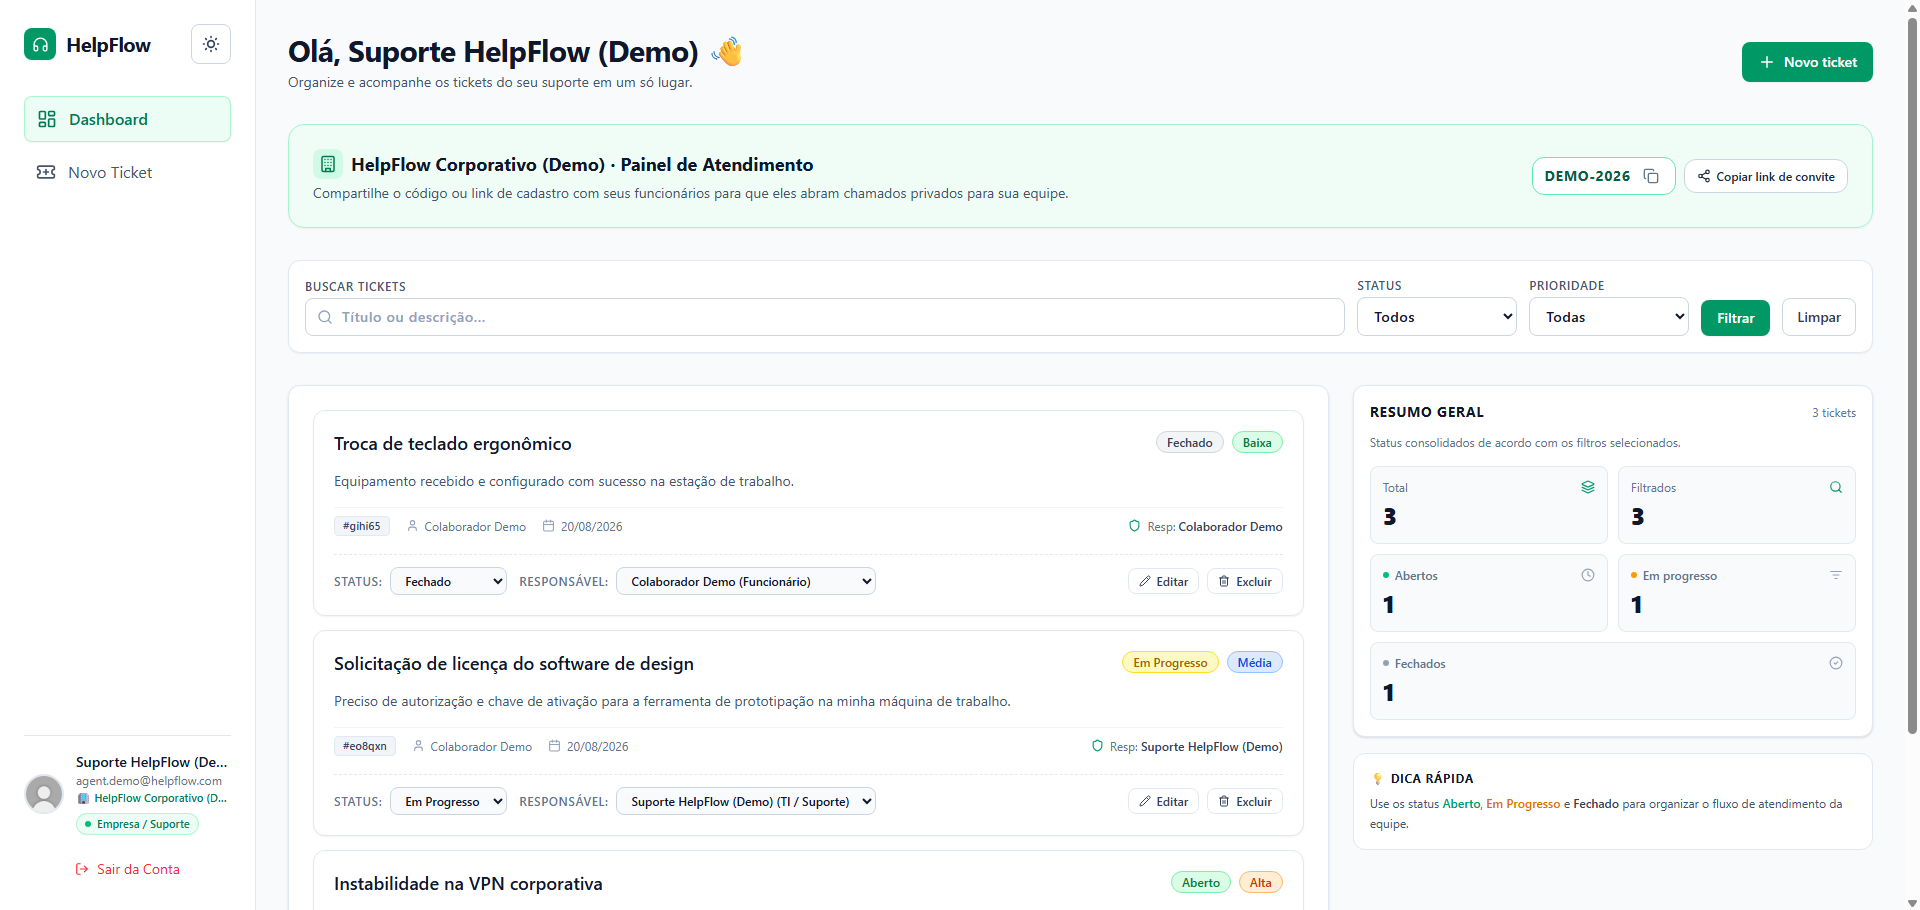
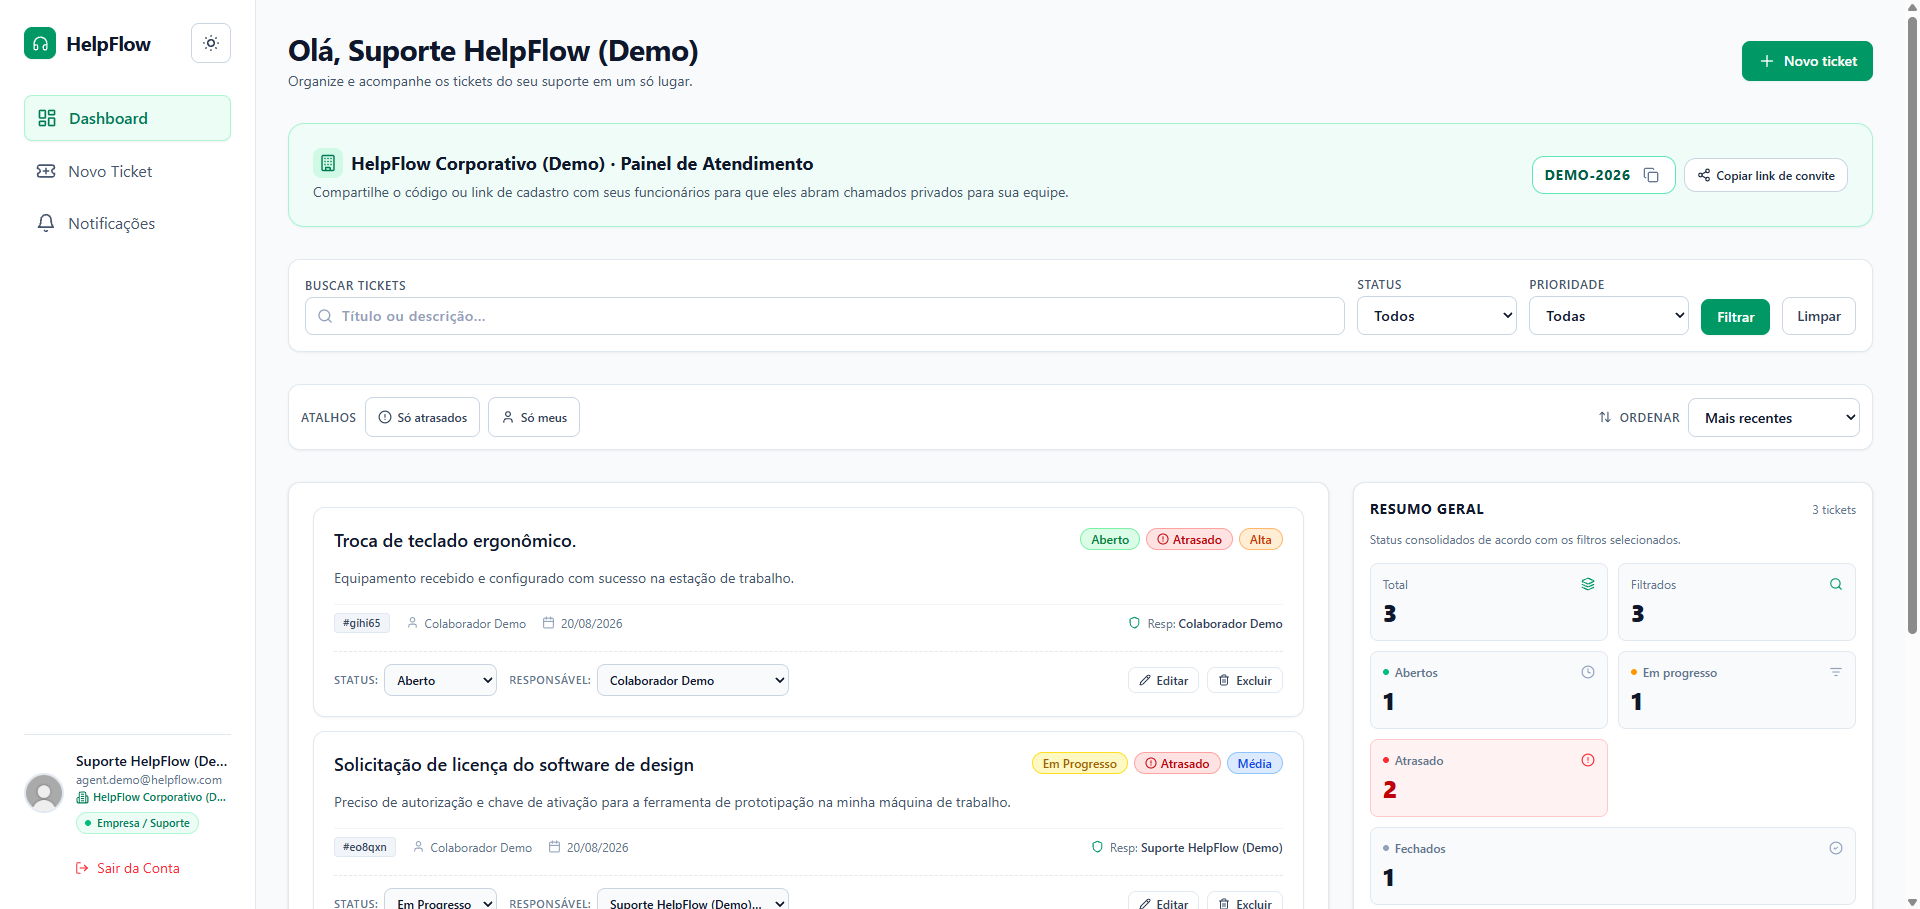
docs(previews): atualiza screenshots e galeria do readme

diff --git a/README.md b/README.md
@@ -49,43 +49,23 @@ Além disso, qualquer visitante pode cadastrar sua própria **Empresa** ou se re
 
 ## Demonstração Visual da Jornada
 
-O HelpFlow guia a organização desde a criação do espaço até a resolução e acompanhamento dos chamados:
+O HelpFlow guia a organização desde a criação do espaço até a resolução e acompanhamento dos chamados. As telas abaixo seguem o tema claro; o tema escuro aparece no fim como alternativa nativa.
 
-### 1. Descoberta e Apresentação
-Apresentação moderna com simulador interativo de chamados e proposta de valor clara.
-![Landing Page do HelpFlow](docs/screenshots/01-landing-page-hero.png)
-
-### 2. Cadastro Corporativo Segmentado
-Ambiente unificado para criação do espaço da Empresa ou entrada do Funcionário via código corporativo.
-![Cadastro Corporativo Multi-Empresa](docs/screenshots/02-cadastro-multitenant.png)
-
-### 3. Autenticação e Acesso Rápido de Demonstração
-Tela de login com suporte a credenciais seguras e acesso 1-clique para teste das duas visões.
-![Tela de Login e Demonstração](docs/screenshots/03-login-acesso-demo.png)
-
-### 4. Visão da Empresa / TI (Gestão Geral e Convites)
-Fila geral de tickets corporativos, indicadores de atendimento e código de convite da empresa.
-![Dashboard da Empresa / TI](docs/screenshots/04-dashboard-empresa-ti.png)
-
-### 5. Visão do Colaborador (Privacidade Total)
-Histórico estritamente privado dos chamados do funcionário dentro da organização.
-![Dashboard do Funcionário](docs/screenshots/05-dashboard-funcionario-privado.png)
-
-### 6. Abertura de Novo Chamado Interno
-Interface simples e direta para solicitação de suporte com categorização por severidade.
-![Abertura de Chamado](docs/screenshots/06-abertura-novo-chamado.png)
+| | |
+|---|---|
+| **1. Descoberta e Apresentação**<br>Landing page com simulador interativo e proposta de valor clara.<br>![Landing Page do HelpFlow](docs/screenshots/01-landing-page-hero.png) | **2. Cadastro Corporativo Segmentado**<br>Criação da Empresa ou entrada do Funcionário via código corporativo.<br>![Cadastro Corporativo Multi-Empresa](docs/screenshots/02-cadastro-multitenant.png) |
+| **3. Autenticação e Acesso Rápido**<br>Login com credenciais seguras e acesso de demonstração em 1 clique.<br>![Tela de Login e Demonstração](docs/screenshots/03-login-acesso-demo.png) | **4. Visão da Empresa / TI**<br>Fila geral, indicadores de atendimento e código de convite da empresa.<br>![Dashboard da Empresa / TI](docs/screenshots/04-dashboard-empresa-ti.png) |
+| **5. Visão do Colaborador**<br>Histórico estritamente privado dos chamados do funcionário.<br>![Dashboard do Funcionário](docs/screenshots/05-dashboard-funcionario-privado.png) | **6. Abertura de Novo Chamado**<br>Solicitação de suporte com categorização por severidade.<br>![Abertura de Chamado](docs/screenshots/06-abertura-novo-chamado.png) |
 
 ### 7. Triagem Ágil e Acompanhamento de Detalhes
 Painel de triagem completa na página de detalhes, permitindo alterar status, prioridade e atribuir qualquer membro da empresa.
+
 ![Triagem e Detalhes do Chamado](docs/screenshots/07-triagem-e-detalhes-ticket.png)
 
-### 8. Experiência em Tema Claro
-Consistência e legibilidade com contraste balanceado para ambientes claros.
-![Tema Claro e Responsividade](docs/screenshots/08-tema-claro-responsivo.png)
+### 8. Experiência em Tema Escuro
+Design em modo dark nativo com paleta de tons neutros e acentos esmeralda.
 
-### 9. Experiência em Tema Escuro
-Design sofisticado em modo dark nativo com paleta de tons neutros e acentos esmeralda.
-![Tema Escuro e Responsividade](docs/screenshots/09-tema-escuro-responsivo.png)
+![Tema Escuro e Responsividade](docs/screenshots/08-tema-escuro-responsivo.png)
 
 ---
 
@@ -99,21 +79,20 @@ O sistema adota regras rigorosas de autorização no servidor (RBAC + Multi-tena
 | **Visualizar chamado** | Sim | Bloqueado | Sim | Sim (todos da empresa) | Bloqueado |
 | **Comentar no chamado** | Sim | Bloqueado | Sim | Sim | Bloqueado |
 | **Excluir comentário** | Sim (próprio) | Bloqueado | Sim (próprio) | Sim (qualquer da empresa) | Bloqueado |
-| **Editar título/descrição** | Sim | Bloqueado | Sim | Sim | Bloqueado |
+| **Editar título/descrição** | Sim (se Aberto) | Bloqueado | Bloqueado | Sim | Bloqueado |
 | **Alterar status/prioridade** | Bloqueado | Bloqueado | Bloqueado | Sim | Bloqueado |
 | **Atribuir responsável** | Bloqueado | Bloqueado | Bloqueado | Sim | Bloqueado |
-| **Excluir chamado** | Sim | Bloqueado | Bloqueado | Sim | Bloqueado |
+| **Excluir chamado** | Sim (próprio, se Aberto) | Bloqueado | Bloqueado | Sim | Bloqueado |
 
 ---
 
 ## Endpoints da API REST
 
-A API do HelpFlow segue os padrões REST com validação de payload via Zod, rate limiting em memória e verificação estrita de sessão:
+A API do HelpFlow segue os padrões REST com validação de payload via Zod, rate limiting distribuído (Upstash) com fallback em memória e verificação estrita de sessão:
 
 | Método | Rota | Descrição | Acesso |
 |---|---|---|---|
-| `POST` | `/api/register/company` | Cadastro de nova empresa e criação da conta de gestão (AGENT) | Público |
-| `POST` | `/api/register/employee` | Cadastro de colaborador vinculado via código de convite da empresa | Público |
+| `POST` | `/api/register` | Cadastro de Empresa (AGENT) ou Funcionário (CLIENT), via `accountType` e código de convite | Público |
 | `POST` | `/api/auth/[...nextauth]` | Autenticação por credenciais e sessões JWT com NextAuth | Público |
 | `POST` | `/api/auth/forgot-password` | Solicitação de redefinição de senha por e-mail | Público |
 | `POST` | `/api/auth/reset-password` | Validação de token de segurança e definição de nova senha | Público |
@@ -126,6 +105,9 @@ A API do HelpFlow segue os padrões REST com validação de payload via Zod, rat
 | `POST` | `/api/tickets/[id]/comments` | Envio de nova mensagem no chamado com sanitização de texto | Autenticado (RBAC) |
 | `DELETE` | `/api/tickets/[id]/comments/[commentId]` | Remoção de comentário | Autor / AGENT |
 | `GET` | `/api/agents` | Listagem de membros da organização para delegação de atendimento | Empresa / TI (AGENT) |
+| `GET` | `/api/notifications` | Lista as notificações do usuário, com não lidas primeiro | Autenticado |
+| `PATCH` | `/api/notifications` | Marca todas as notificações do usuário como lidas | Autenticado |
+| `PATCH` | `/api/notifications/[id]` | Marca uma notificação específica como lida | Autenticado |
 | `GET` | `/api/health` | Verificação de integridade da API e conectividade com PostgreSQL | Público |
 
 ---
@@ -142,7 +124,7 @@ A API do HelpFlow segue os padrões REST com validação de payload via Zod, rat
 - Cadastro segmentado em abas (Cadastrar Empresa vs Sou Funcionário).
 - Criptografia de senhas com hash `bcryptjs` (salt rounds = 10).
 - Sessões protegidas com NextAuth.js (JWT) propagando `companyId`, `companyName` e `companyCode`.
-- Rate limiting em memória com expiração automática nas rotas de login, cadastro, comentários e tickets.
+- Rate limiting distribuído com Upstash Redis e fallback em memória nas rotas de login, cadastro, comentários e tickets.
 - Validação estrita de schemas com Zod no servidor.
 - Headers de segurança HTTP configurados (`X-Frame-Options`, `X-Content-Type-Options`, `Referrer-Policy`, `Permissions-Policy`).
 
